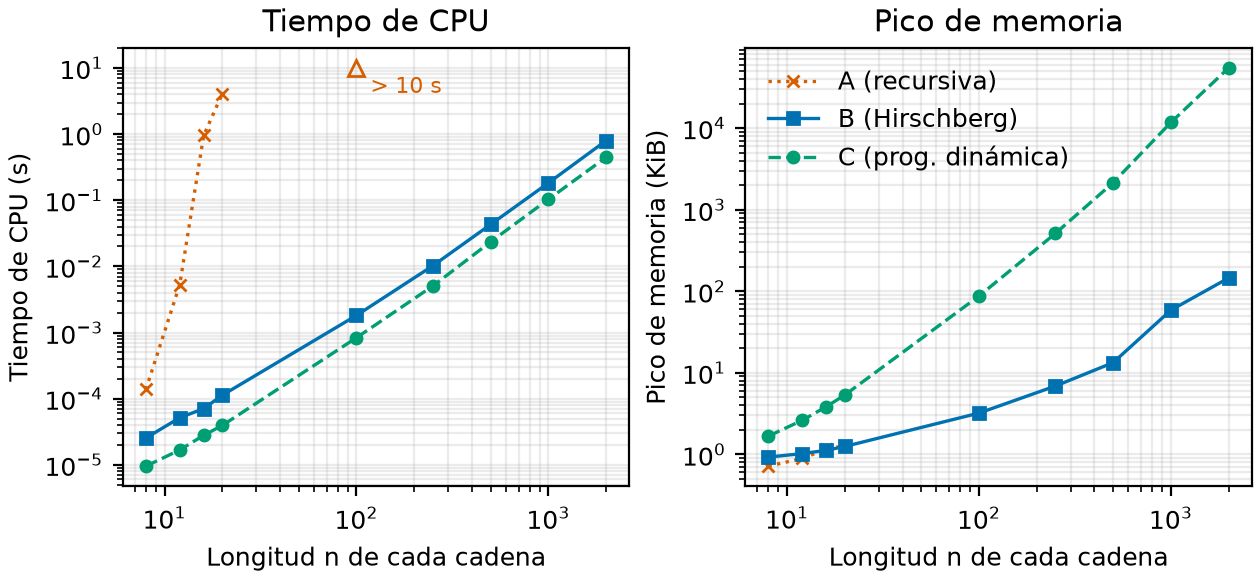
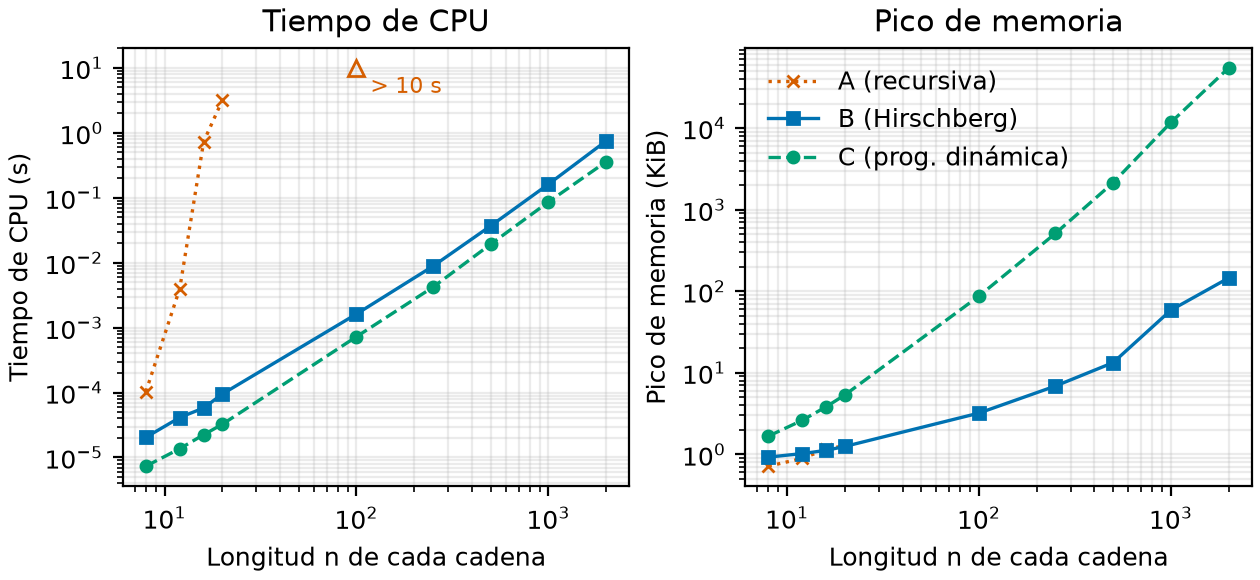
Fix Readme and benchmark

diff --git a/lcs_hirschberg.py b/lcs_hirschberg.py
@@ -1,6 +1,4 @@
 """Versión B - LCS con la estrategia divide y conquista de Hirschberg.
-
-Idea (ver memoria):
   1. Se divide la cadena a en dos mitades: a1 = a[:mid] y a2 = a[mid:].
   2. En espacio lineal (solo dos filas) se calculan
         L[j] = |LCS(a1, b[:j])|           (puntuaciones directas)
@@ -8,17 +6,16 @@ Idea (ver memoria):
   3. El punto de corte k maximiza L[k] + R[n-k]; ese máximo es |LCS(a, b)|.
   4. Se resuelven recursivamente (a1, b[:k]) y (a2, b[k:]) y se concatenan.
 
-Coste: tiempo O(m*n), espacio O(min(m, n)).
+Coste: tiempo Θ(m*n), espacio O(min(m, n)+ log m).
 No se crean sublistas ni subcadenas de a: se trabaja con índices.
 """
 
 
 def _fila(a, i0, i1, b, j0, j1, inversa):
     """Última fila de la tabla de LCS de a[i0:i1] frente a b[j0:j1].
-
     inversa=False: devuelve F[j] = |LCS(a[i0:i1], b[j0:j0+j])|
     inversa=True : devuelve F[j] = |LCS(a[i0:i1], b[j1-j:j1])|
-                   (se recorren ambas cadenas al revés)
+    (se recorren ambas cadenas al revés)
     Solo se mantienen dos filas de longitud n+1.
     """
     bs = b[j0:j1]
@@ -45,7 +42,6 @@ def _fila(a, i0, i1, b, j0, j1, inversa):
 
 def _punto_corte(a, i0, mid, i1, b, j0, j1):
     """Devuelve k tal que L[k] + R[n-k] es máximo.
-
     L y R son locales: se liberan al volver, antes de recursar,
     para no acumular O(n) por cada nivel de la recursión.
     """
@@ -83,7 +79,6 @@ def _hirschberg(a, i0, i1, b, j0, j1, salida, est, nivel):
 
 def lcs_hirschberg_stats(a: str, b: str) -> tuple[str, dict]:
     """Devuelve (LCS, estadísticas).
-
     Estadísticas: 'celdas' = celdas de tabla evaluadas en total,
     'prof_max' = profundidad máxima de la recursión.
     """
@@ -99,7 +94,6 @@ def lcs_hirschberg_stats(a: str, b: str) -> tuple[str, dict]:
 def lcs_hirschberg(a: str, b: str) -> str:
     """Devuelve una subsecuencia común más larga de a y b."""
     return lcs_hirschberg_stats(a, b)[0]
-
 
 if __name__ == "__main__":
     r = lcs_hirschberg("ABCBDAB", "BDCABA")

diff --git a/lcs_dinamica.py b/lcs_dinamica.py
@@ -1,6 +1,4 @@
 """Versión C - LCS con programación dinámica tabular.
-
-Los cuatro pasos del Tema 3:
   1. Planteamiento: el problema cumple el principio de optimalidad.
   2. Definición recursiva de la longitud de la solución:
         L[i][j] = 0                             si i = 0 o j = 0
@@ -9,14 +7,12 @@ Los cuatro pasos del Tema 3:
   3. Cálculo de la tabla de (m+1) x (n+1) celdas, de arriba abajo y de
      izquierda a derecha: cada subproblema se resuelve una sola vez.
   4. Construcción de la solución por retroceso desde L[m][n].
-
 Coste: tiempo Θ(m*n), espacio Θ(m*n).
 """
 
 
 def lcs_dinamica_stats(a: str, b: str) -> tuple[str, dict]:
     """Devuelve (LCS, estadísticas).
-
     Estadísticas: 'celdas' = celdas de tabla calculadas (m*n),
     'retroceso' = pasos dados al reconstruir la solución (<= m + n).
     """
@@ -54,7 +50,6 @@ def lcs_dinamica_stats(a: str, b: str) -> tuple[str, dict]:
 def lcs_dinamica(a: str, b: str) -> str:
     """Devuelve una subsecuencia común más larga de a y b."""
     return lcs_dinamica_stats(a, b)[0]
-
 
 if __name__ == "__main__":
     r = lcs_dinamica("ABCBDAB", "BDCABA")

diff --git a/benchmark.py b/benchmark.py
@@ -1,7 +1,5 @@
 """Experimentos: tiempo de CPU y pico de memoria de las tres versiones del LCS.
-
 Uso:  python3 benchmark.py [--tamanos 8 12 ...] [--limite-a 10] [--repeticiones 3]
-
 Diseño de la medición
   * Datos: una pareja de cadenas aleatorias de longitud n sobre {A, C, G, T}
     por cada tamaño, con semilla fija (reproducible). Se guardan en datos/.
@@ -49,10 +47,9 @@ def generar_pareja(n: int, semilla_base: int = 2026) -> tuple[str, str]:
 
 def medir_cpu(f, a: str, b: str, repeticiones: int, objetivo_s: float = 0.5):
     """Devuelve (mediana del tiempo de CPU en s, resultado de f(a, b)).
-
-    El tamaño del bucle se calibra con perf_counter (alta resolución) para que
-    cada muestra dure >= objetivo_s. Así la resolución de process_time (unos
-    15,6 ms en Windows) introduce un error relativo pequeño incluso con
+    El tamaño del bucle se calibra con perf_counter para que cada muestra
+    dure >= objetivo_s. Así la resolución de process_time (unos
+    15,6 ms) introduce un error relativo pequeño incluso con
     ejecuciones de microsegundos.
     """
     gc.collect()

diff --git a/comprobacion_memoria_b.py b/comprobacion_memoria_b.py
@@ -1,11 +1,8 @@
-"""Comprobación adicional: ¿la memoria de la Versión B crece de forma lineal?
-
-Python guarda como objetos independientes (28 bytes cada uno) los enteros
+"""Python guarda como objetos independientes (28 bytes cada uno) los enteros
 mayores de 256. Las filas de la Versión B son listas de enteros que superan ese
-valor a partir de n ~ 400, y eso infla la memoria medida. Aquí se repite la
+valor a partir de n= 400, y eso infla la memoria medida. Aquí se repite la
 medición sustituyendo las filas por array('H') (2 bytes por celda) para
 separar el efecto del lenguaje del comportamiento del algoritmo.
-
 Uso:  python3 comprobacion_memoria_b.py
 """
 from array import array

diff --git a/lcs_recursiva.py b/lcs_recursiva.py
@@ -1,15 +1,11 @@
 """Versión A - LCS recursivo directo (sin memorización).
-
 Recurrencia sobre los prefijos a[:i] y b[:j]:
-
     LCS(i, j) = ""                                   si i = 0 o j = 0
     LCS(i, j) = LCS(i-1, j-1) + a[i-1]               si a[i-1] == b[j-1]
     LCS(i, j) = la más larga de LCS(i-1, j), LCS(i, j-1)   en otro caso
-
 Cada subproblema (i, j) se vuelve a resolver una y otra vez, por lo que
 el coste es exponencial (ver análisis en la memoria).
 """
-
 
 def lcs_recursiva_stats(a: str, b: str) -> tuple[str, int]:
     """Devuelve (subsecuencia común más larga, número de llamadas recursivas)."""

diff --git a/informe.py b/informe.py
@@ -1,5 +1,4 @@
 """Tablas y gráficas a partir de resultados/resultados.csv.
-
 Uso:  python3 informe.py [--salida resultados]
 Genera: tablas.md (tablas listas para pegar) y grafica_comparativa.png
 (la gráfica requiere matplotlib; si no está instalado, solo se generan las tablas).
@@ -41,7 +40,7 @@ def num(x, decimales=0):
 
 
 def cifras(x, significativas=3):
-    """x con 'significativas' cifras significativas, en formato español."""
+    """x con cifras significativas, en formato español."""
     if x == 0:
         return "0"
     from math import floor, log10

diff --git a/run_all.py b/run_all.py
@@ -1,7 +1,4 @@
-"""Punto de entrada único del proyecto.
-
-    python3 run_all.py            (o simplemente:  make)
-
+"""
 Ejecuta, en orden: 1) pruebas unitarias, 2) experimentos, 3) tablas y gráfica.
 Los resultados quedan en resultados/ y las parejas de cadenas en datos/.
 """
@@ -24,5 +21,5 @@ def main():
     informe.main([])
 
 
-if __name__ == "__main__":  # necesario: los procesos hijo (spawn) reimportan este módulo
+if __name__ == "__main__":
     main()

diff --git a/test_lcs.py b/test_lcs.py
@@ -1,5 +1,4 @@
 """Pruebas de validación de las versiones del LCS.
-
 Ejecutar:  python3 -m unittest -v test_lcs
 Como pueden existir varias LCS válidas, se comprueba (1) la longitud óptima
 y (2) que el resultado es subsecuencia de ambas cadenas.

diff --git a/README.md b/README.md
@@ -2,7 +2,7 @@
 
 Actividad individual 1 · Diseño avanzado de algoritmos.
 Cálculo de la subsecuencia común más larga (LCS) de dos cadenas con tres estrategias
-y comparación empírica de tiempo de CPU y memoria.
+y comparación de tiempo de CPU y memoria.
 
 | Versión | Archivo | Estrategia | Tiempo | Espacio |
 |---|---|---|---|---|
@@ -14,14 +14,13 @@ y comparación empírica de tiempo de CPU y memoria.
 
 - Python 3.9 o superior (probado con 3.12). Solo biblioteca estándar.
 - `matplotlib` es **opcional**: solo se usa para dibujar la gráfica
-  (`pip install -r requirements.txt`). Sin él se generan igualmente los datos y las tablas.
+  (`pip install matplotlib`). Sin él se generan igualmente los datos y las tablas.
 
 ## Ejecución (un único comando)
 
 ```
 python run_all.py        # en Windows
 python3 run_all.py       # en Linux / macOS
-make                     # equivalente, si dispone de make
 ```
 
 Ejecuta en orden: 1) pruebas unitarias (`test_lcs.py`), 2) experimentos (`benchmark.py`),
@@ -39,7 +38,8 @@ Salidas:
 
 ```
 python benchmark.py --tamanos 8 12 16 100 500 1000 --limite-a 10 --repeticiones 3
-python informe.py
+python informe.py	# rehace tablas y gráfica a partir de resultados/resultados.csv
+python comprobacion_memoria_b.py  # memoria de B con filas array('H')
 python -m unittest -v test_lcs
 ```
 

diff --git a/resultados/tablas.md b/resultados/tablas.md
@@ -4,15 +4,15 @@
 
 | n | CPU A (ms) | CPU B (ms) | CPU C (ms) | Mem. A (KiB) | Mem. B (KiB) | Mem. C (KiB) |
 |---|---|---|---|---|---|---|
-| 8 | 0,138 | 0,0254 | 0,00953 | 0,7 | 0,9 | 1,7 |
-| 12 | 5,26 | 0,0514 | 0,0167 | 0,9 | 1,0 | 2,6 |
-| 16 | 953 | 0,0707 | 0,0279 | 1,2 | 1,1 | 3,8 |
-| 20 | 4 062 | 0,113 | 0,0393 | 1,3 | 1,2 | 5,3 |
-| 100 | > 10 000 | 1,81 | 0,833 | — | 3,2 | 87,0 |
-| 250 | — | 10,2 | 5,05 | — | 6,9 | 510 |
-| 500 | — | 43,0 | 23,4 | — | 13,3 | 2 139 |
-| 1000 | — | 182 | 103 | — | 58,6 | 11 729 |
-| 2000 | — | 797 | 445 | — | 145 | 54 682 |
+| 8 | 0,103 | 0,0205 | 0,00734 | 0,7 | 0,9 | 1,7 |
+| 12 | 3,96 | 0,0412 | 0,0137 | 0,9 | 1,0 | 2,6 |
+| 16 | 734 | 0,0579 | 0,0224 | 1,2 | 1,1 | 3,8 |
+| 20 | 3 156 | 0,0949 | 0,0324 | 1,3 | 1,2 | 5,3 |
+| 100 | > 10 000 | 1,62 | 0,725 | — | 3,2 | 87,0 |
+| 250 | — | 8,81 | 4,19 | — | 6,9 | 510 |
+| 500 | — | 36,8 | 19,2 | — | 13,3 | 2 139 |
+| 1000 | — | 161 | 85,9 | — | 58,6 | 11 729 |
+| 2000 | — | 750 | 359 | — | 145 | 54 682 |
 
 — : no ejecutada (el tamaño anterior ya superó el límite de tiempo). > 10 000 : no terminó en el límite de tiempo.
 
